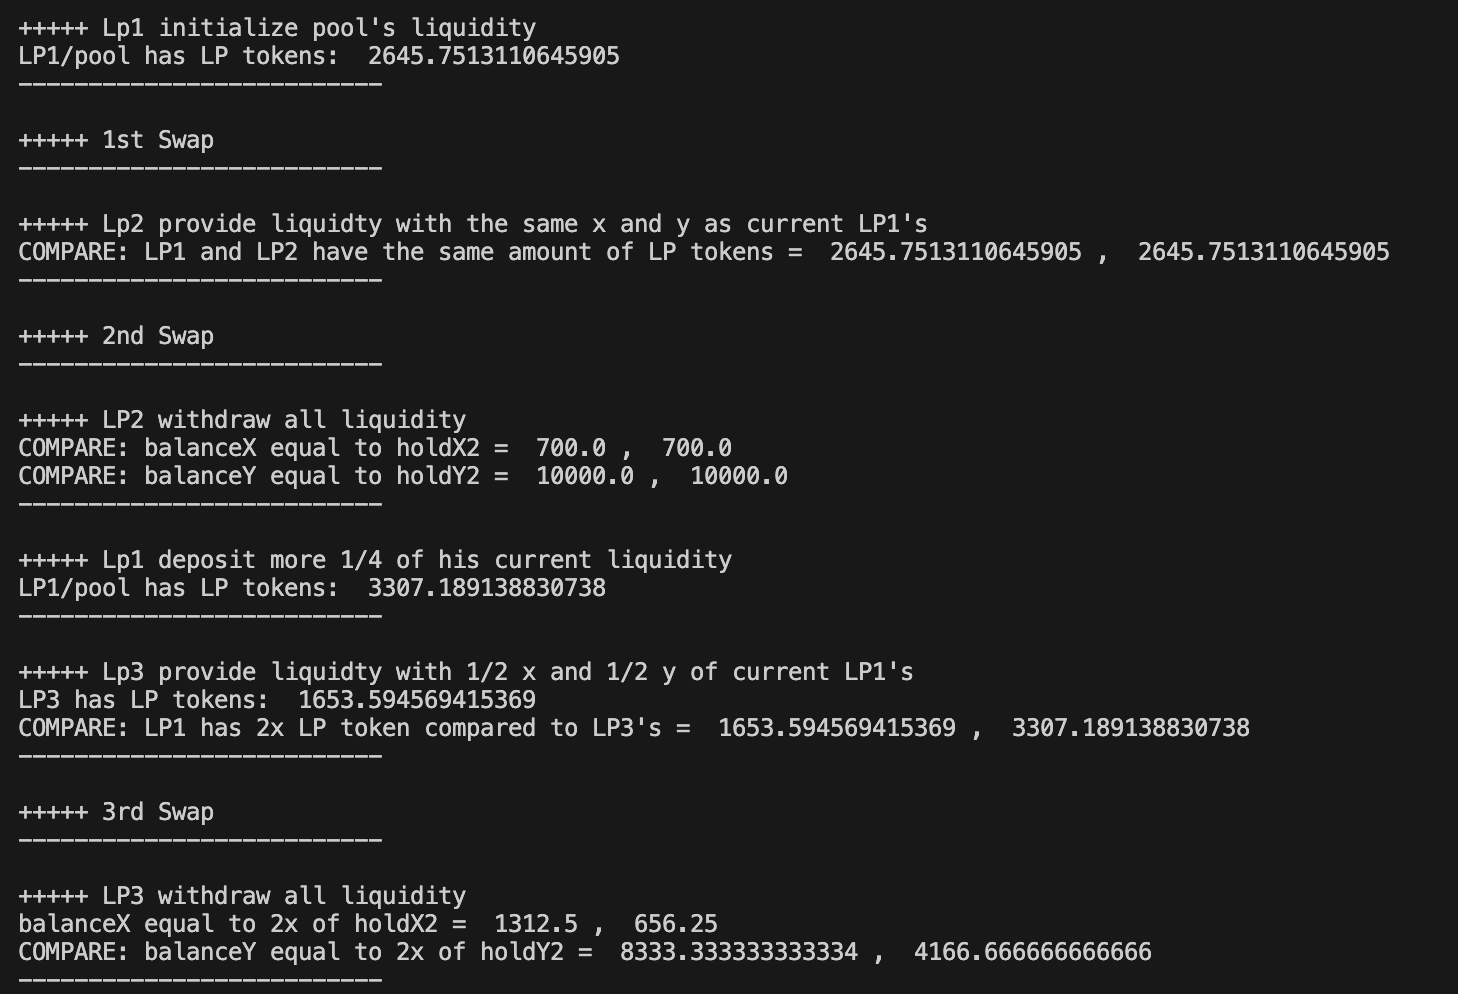
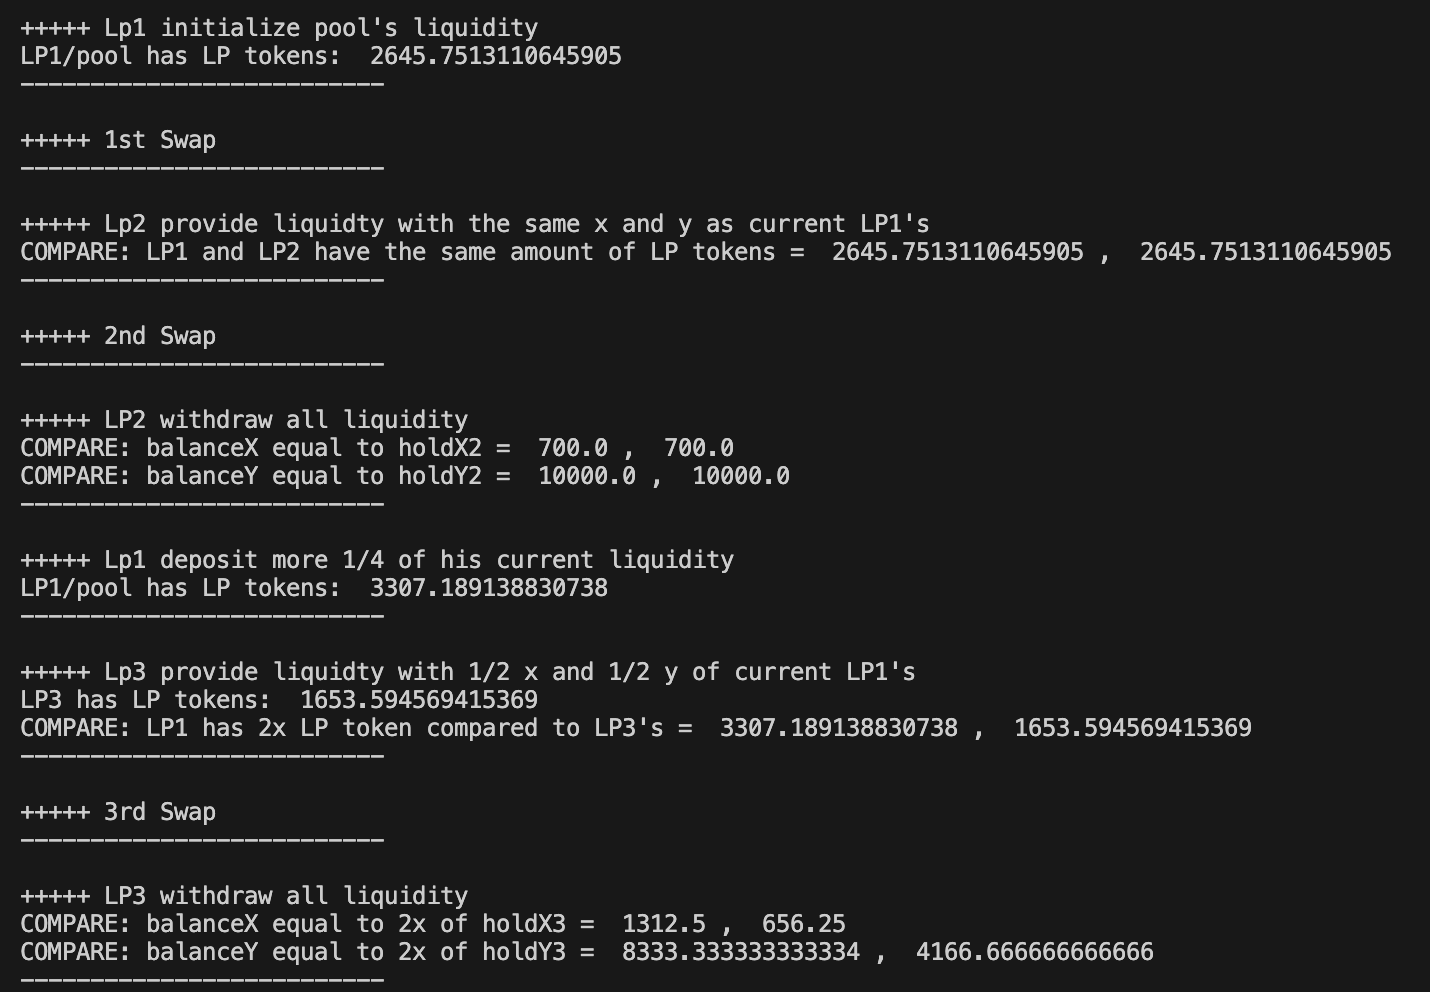
add DPAMM case
-add tests for DPAMM
-correct logging typo in CPAMM
-update ReadMe

diff --git a/test/tLpDPAMM.py b/test/tLpDPAMM.py
@@ -1,0 +1,174 @@
+import math
+import sys
+sys.path.insert(0,'/DEFINE-YOUR-PATH-HERE/LP-Accounting-DPAMM-CPAMM/src/') # add your path
+from lpDPAMM import deposit,withdraw
+
+# Pool Variable
+balanceX = 0
+balanceY = 0
+priceX = 0
+totalLpX = 0
+totalLpY = 0
+
+# LP's holding
+LpX1 =0
+LpY1 =0
+holdX1 = 700
+holdY1 = 10000
+
+LpX2 =0
+LpY2 =0
+holdX2 = 0
+holdY2= 0
+
+LpX3 =0
+LpY3 =0
+holdX3 = 0
+holdY3= 0
+
+def getK():
+    return balanceX*balanceY
+def getRatio():
+    return balanceY/balanceX
+
+def testLpDPAMM():
+    global totalLpX
+    global totalLpY
+    global balanceX
+    global balanceY
+    global LpX1
+    global LpY1 
+    global LpX2
+    global LpY2
+    global LpX3
+    global LpY3 
+    global holdX1
+    global holdY1
+    global holdX2
+    global holdY2
+    global holdX3
+    global holdY3
+
+    #Lp1 deposit + initiate the price to be as x=700 and y=1000 as in CPAMM
+    priceX = 1000/700 # y/x in CPAMM
+    LpX1, LpY1 = deposit(holdX1,holdY1, priceX)
+    totalLpX += LpX1
+    totalLpY += LpY1
+    balanceX+=holdX1
+    balanceY+=holdY1
+    holdX1 = 0
+    holdY1 = 0
+    print()
+    print("+++++ Lp1 initialize pool's liquidity")
+    print("LP1/pool has LPX tokens: ", LpX1)
+    print("LP1/pool has LPY tokens: ", LpY1)
+    print("--------------------------")
+
+    #1st swap
+    currentRatio = getRatio()
+    newX = balanceX - (balanceX/5) #20% of balance X if traded out
+    newY = getK()/newX
+    yIn = newY - balanceY
+    newRatio = newY/newX
+    priceX = (newRatio/currentRatio)*priceX
+    balanceX = newX
+    balanceY = newY
+    print()
+    print("+++++ 1st Swap")
+    print("--------------------------")
+
+    #Lp2 deposit
+    LpX2, LpY2 = deposit(balanceX, balanceY, priceX)
+    totalLpX += LpX2
+    totalLpY += LpY2
+    balanceX*=2
+    balanceY*=2
+    print()
+    print("+++++ Lp2 provide liquidty with the same x and y as current LP1's")
+    print("COMPARE: LP1 and LP2 have the same amount of LPX tokens = ", LpX1 ,', ', LpX2)
+    print("COMPARE: LP1 and LP2 have the same amount of LPY tokens = ", LpY1 ,', ', LpY2)
+    print("--------------------------")
+
+    #2nd swap
+    currentRatio = getRatio()
+    newY = balanceY - (yIn*2)
+    newX = getK()/newY
+    newRatio = newY/newX
+    priceX = (newRatio/currentRatio)*priceX
+    balanceX = newX
+    balanceY = newY
+    print()
+    print("+++++ 2nd Swap")
+    print("--------------------------")
+
+    #Lp2 withdraw
+    holdX2, holdY2 = withdraw(LpX2, LpY2, priceX)
+    totalLpX -= LpX2
+    totalLpY -= LpY2
+    LpX2=0
+    LpY2=0
+    balanceX -= holdX2
+    balanceY -= holdY2
+    print()
+    print("+++++ LP2 withdraw all liquidity")
+    print("COMPARE: balanceX equal to holdX2 = ", balanceX,', ', holdX2) 
+    print("COMPARE: balanceY equal to holdY2 = ",balanceY,', ', holdY2)
+    print("--------------------------")
+
+    #Lp1 add liquidity to the pool (25% more than he currently has)
+    newLpX1, newLpY1 = deposit(balanceX/4, balanceY/4, priceX)
+    totalLpX += newLpX1
+    totalLpY += newLpY1
+    LpX1 += newLpX1
+    LpY1 += newLpY1
+    balanceX += balanceX/4
+    balanceY += balanceY/4
+    print()
+    print("+++++ Lp1 deposit more 1/4 of his current liquidity")
+    print("LP1/pool has LPX tokens: ", LpX1)
+    print("LP1/pool has LPX tokens: ", LpY1)
+    print("--------------------------")
+
+    #Lp3 deposit liquidity, 50% of LP1's value
+    LpX3, LpY3 = deposit(balanceX/2, balanceY/2, priceX)
+    totalLpX += LpX3
+    totalLpY += LpY3
+    balanceX += balanceX/2
+    balanceY += balanceY/2
+    print()
+    print("+++++ Lp3 provide liquidty with 1/2 x and 1/2 y of current LP1's")
+    print("LP3 has LPX tokens: ", LpX3)
+    print("LP3 has LPY tokens: ", LpY3)
+    print("COMPARE: LP1 has 2x LP token compared to LP3's = ", LpX1 ,', ',LpX3)
+    print("COMPARE: LP1 has 2x LP token compared to LP3's = ", LpY1 ,', ',LpY3)
+    print("--------------------------")
+    
+    #3rd swap
+    currentRatio = getRatio()
+    newY = balanceY - (balanceY/3)
+    newX = getK()/newY
+    newRatio = newY/newX
+    priceX = (newRatio/currentRatio)*priceX
+    balanceX = newX
+    balanceY = newY
+    print()
+    print("+++++ 3rd Swap")
+    print("--------------------------")
+
+    #LP3 withdraw all liquidity
+    holdX3, holdY3 = withdraw(LpX3, LpY3, priceX)
+    totalLpX -= LpX3
+    totalLpY -= LpY3
+    LpX3=0
+    LpY3=0
+    balanceX -= holdX3
+    balanceY -= holdY3
+    print()
+    print("+++++ LP3 withdraw all liquidity")
+    print("COMPARE: balanceX equal to 2x of holdX3 = ", balanceX,', ', holdX3)
+    print("COMPARE: balanceY equal to 2x of holdY3 = ",balanceY,', ', holdY3)
+    print("--------------------------")    
+
+    
+testLpDPAMM()
+    

diff --git a/test/tLpCPAMM.py b/test/tLpCPAMM.py
@@ -6,7 +6,7 @@ from lpCPAMM import deposit,withdraw
 # Pool Variable
 balanceX = 0
 balanceY = 0
-totalLP = math.sqrt(balanceX*balanceY)
+totalLP = 0
 
 # LP's holding
 Lp1 = 0
@@ -22,13 +22,7 @@ holdX3 = 0
 holdY3= 0
 
 def getK():
-    return balanceX*balanceY
-
-def getTotalLP():
-    return math.sqrt(getK())
-
-# def updateHolding(operation, amountX, amountY):
-    
+    return balanceX*balanceY  
 
 def testLpCPAMM():
     global totalLP
@@ -56,7 +50,6 @@ def testLpCPAMM():
     print("LP1/pool has LP tokens: ", totalLP)
     print("--------------------------")
 
-
     #1st swap
     k = getK()
     balanceX -= (balanceX/5) #20% of balance X if traded out
@@ -75,7 +68,6 @@ def testLpCPAMM():
     print("+++++ Lp2 provide liquidty with the same x and y as current LP1's")
     print("COMPARE: LP1 and LP2 have the same amount of LP tokens = ", Lp2 ,', ', Lp1)
     print("--------------------------")
-    # print(totalLP)
     
     #2nd swap
     k = getK()
@@ -84,7 +76,6 @@ def testLpCPAMM():
     print()
     print("+++++ 2nd Swap")
     print("--------------------------")
-
 
     #Lp2 withdraw
     holdX2, holdY2 = withdraw(Lp2, k, totalLP, balanceX, balanceY)
@@ -138,8 +129,8 @@ def testLpCPAMM():
     balanceY -= holdY3
     print()
     print("+++++ LP3 withdraw all liquidity")
-    print("balanceX equal to 2x of holdX2 = ", balanceX,', ', holdX3)
-    print("COMPARE: balanceY equal to 2x of holdY2 = ",balanceY,', ', holdY3)
+    print("COMPARE: balanceX equal to 2x of holdX3 = ", balanceX,', ', holdX3)
+    print("COMPARE: balanceY equal to 2x of holdY3 = ",balanceY,', ', holdY3)
     print("--------------------------")
     
 testLpCPAMM()

diff --git a/src/lpDPAMM.py b/src/lpDPAMM.py
@@ -1,2 +1,20 @@
 import math
 
+def deposit(amountX, amountY, priceX):
+    mintedLpX=0
+    mintedLpY=0
+    if (amountX > 0):       
+        mintedLpX = (amountX*priceX)/math.sqrt(priceX)
+    if (amountX > 0):       
+        mintedLpY = (amountY/priceX)/math.sqrt(1/priceX)
+    
+    return mintedLpX,mintedLpY
+
+def withdraw(LpXAmount, LpYAmount, priceX):
+    amountX=0
+    amountY=0
+    if (LpXAmount > 0):
+        amountX = (LpXAmount*(math.sqrt(priceX)))/priceX
+    if (LpYAmount > 0):
+        amountY = (LpYAmount*(math.sqrt(1/priceX)))*priceX
+    return amountX, amountY

diff --git a/README.md b/README.md
@@ -28,8 +28,15 @@ DPAMM should handle liquidity contribution and net total of each liquidity posit
 
 ## Result Summary
 
-lpCPAMM.py
-![result](cpammResult.png)
+The results indicate that we have successfully passed all the tests, establishing this experiment as proof that the newly implemented liquidity accounting mechanism of DPAMM effectively facilitates accurate fund allocation within the protocol.
+
+#### Result from CPAMM
+
+![resultCPAMM](cpammResult.png)
+
+#### Result from DPAMM
+
+![resultDPAMM](dpammResult.png)
 
 ## Guide
 
@@ -41,9 +48,9 @@ Go to the downloaded repo, make sure you have [Python3](https://www.python.org/d
 Define your file path in `./test/tLpCPAMM.py` and `./test/tLpDPAMM.py` by changing the value in this line: `sys.path.insert(0,'/DEFINE-YOUR-PATH-HERE/LP-Accounting-DPAMM-CPAMM/src') # add your path`
 
 Run the following command in terminal:
-`python3 ./test/tLpCPAMM.py`
+`python3 ./test/tLpCPAMM.py && python3 ./test/tLpDPAMM.py`
 
-Adjust the value within the `./src/tCPAMM.py` and `./src/tDPAMM.py` as you like for more experiments.
+For your own experiments, adjust the value within the `./test/tLpCPAMM.py` and `./test/tLpDPAMM.py`.
 
 ## Use and Contribution
 
